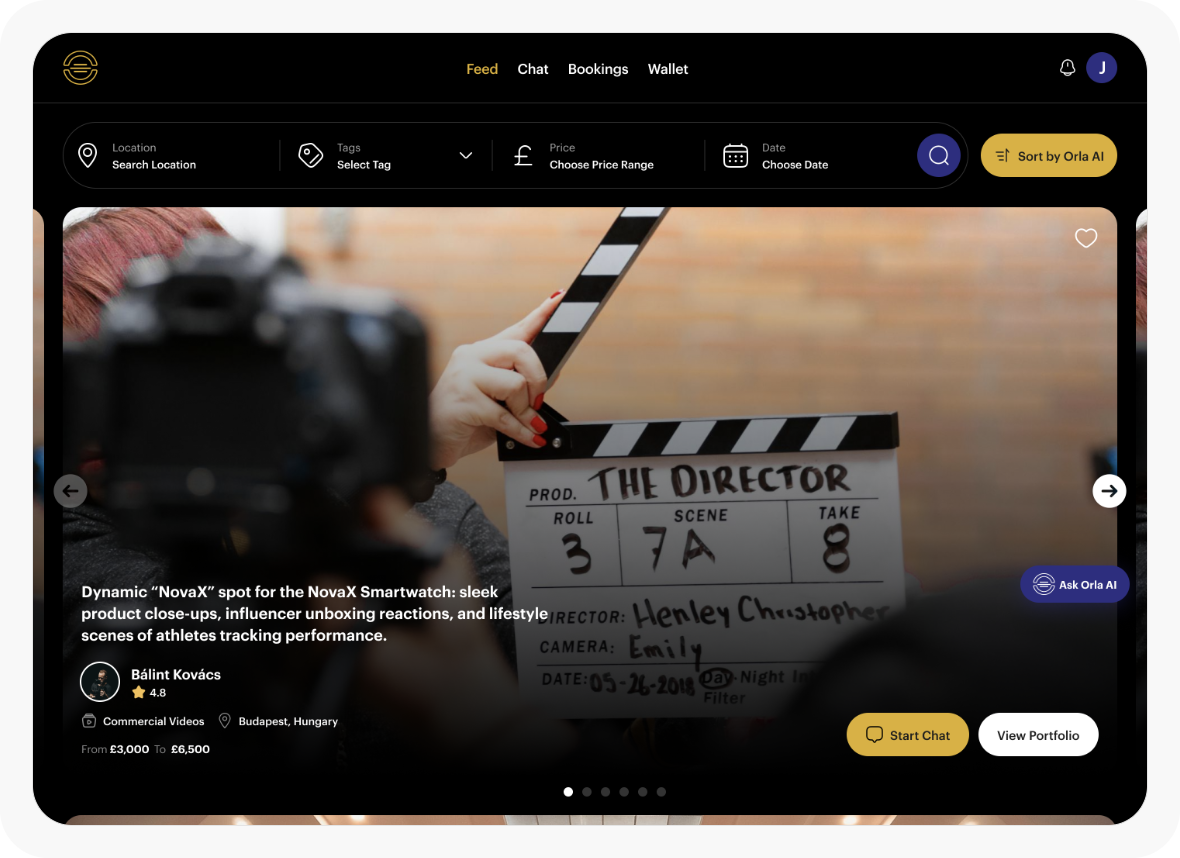
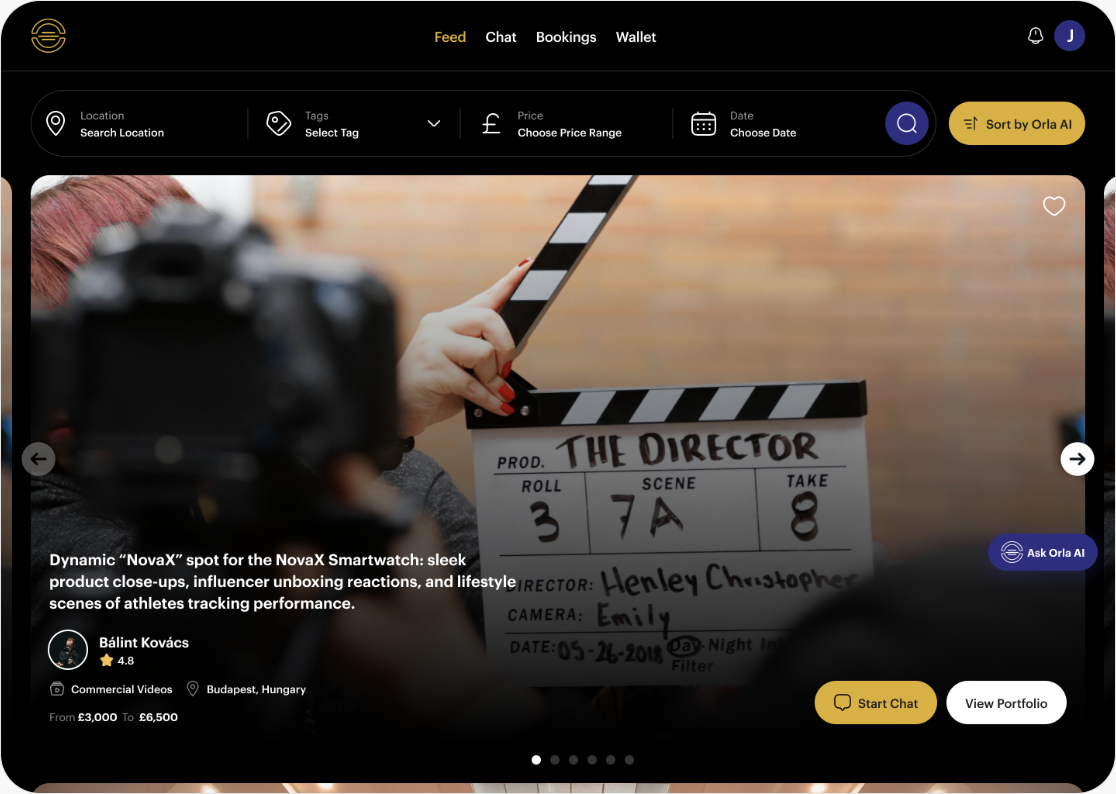
Refine homepage thumbnails: drop Muvuzi border, crop Orla3 mat
- Remove the inset ring on the matted (Muvuzi) card so it has no visible
  border in either theme, matching the other thumbnails.
- Crop the baked 32px light border off orla3.png so the dark app fills the
  card edge to edge; it no longer shows a white frame in dark mode. Adjust
  the card aspect ratio to the cropped image.

diff --git a/src/components/home/ProjectList.tsx b/src/components/home/ProjectList.tsx
@@ -28,8 +28,8 @@ function ProjectItem({ project: p, priority }: { project: HomeProject; priority?
   const radius = matted ? "rounded-[16px]" : "rounded-[24px]";
   const media = (
     <div
-      className={`group relative w-full overflow-hidden ${radius} ring-1 ring-inset ring-[#efefef] transition-[transform,box-shadow] duration-300 ease-out will-change-transform hover:-translate-y-1 hover:shadow-[0_16px_32px_-24px_rgba(17,42,80,0.22)] motion-reduce:transition-none motion-reduce:hover:translate-y-0 dark:ring-white/[0.06] ${
-        matted ? `${p.surfaceClass} p-3` : ""
+      className={`group relative w-full overflow-hidden ${radius} transition-[transform,box-shadow] duration-300 ease-out will-change-transform hover:-translate-y-1 hover:shadow-[0_16px_32px_-24px_rgba(17,42,80,0.22)] motion-reduce:transition-none motion-reduce:hover:translate-y-0 ${
+        matted ? `${p.surfaceClass} p-3` : "ring-1 ring-inset ring-[#efefef] dark:ring-white/[0.06]"
       }`}
       style={{ aspectRatio: `${p.width} / ${p.height}` }}
     >

diff --git a/src/lib/home-data.ts b/src/lib/home-data.ts
@@ -68,7 +68,7 @@ export const homeProjects: HomeProject[] = [
       "Designing the marketplace where booking a videographer means putting money on the line",
     image: "/images/projects/v2/orla3.png",
     width: 590,
-    height: 429,
+    height: 420,
     href: "/work/orla3",
   },
 ];
